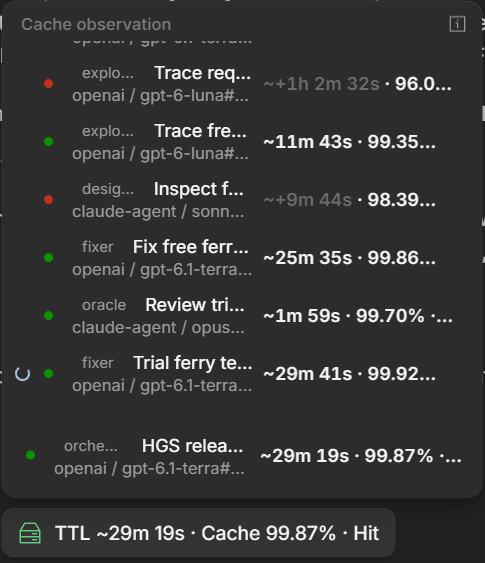
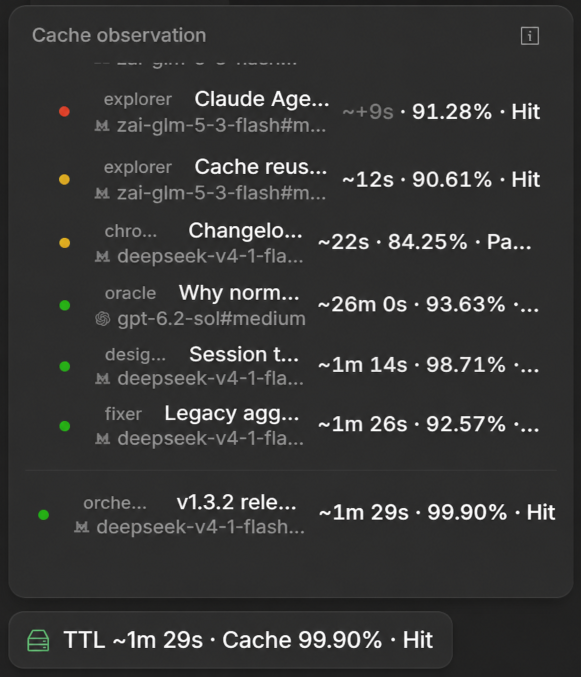
docs: refresh the v1.3.2 session analytics and composer cache screenshots

diff --git a/README.md b/README.md
@@ -24,9 +24,9 @@ The full Native integration ships from **v1.3.0** and requires **OpenCode Deskto
 <table>
   <tr>
     <td width="50%" valign="top">
-      <img src="images/opencode-quota-gui_session.png" alt="Session analytics in the native panel with per-step context and cumulative token charts across a session tree, compaction markers, and a session tree table" />
+      <img src="images/opencode-quota-gui_session.png" alt="Session analytics in the native panel showing scoped context, cumulative and cache-rate series with user-prompt markers, longest idle and high-reuse gaps, and a session tree listing each session's agent, model, cache rate and tokens" />
       <br />
-      <sub><strong>Session analytics</strong> — per-session and whole-tree usage, compaction markers, and the session tree.</sub>
+      <sub><strong>Session analytics</strong> - scoped context, cumulative and cache-rate series with prompt markers, and a session tree with model and cache columns.</sub>
     </td>
     <td width="50%" valign="top">
       <img src="images/opencode-quota-gui_providers.png" alt="Models analytics grouped by provider with a stacked token chart, an API-equivalent cost line, and a cost and token breakdown by provider and model" />
